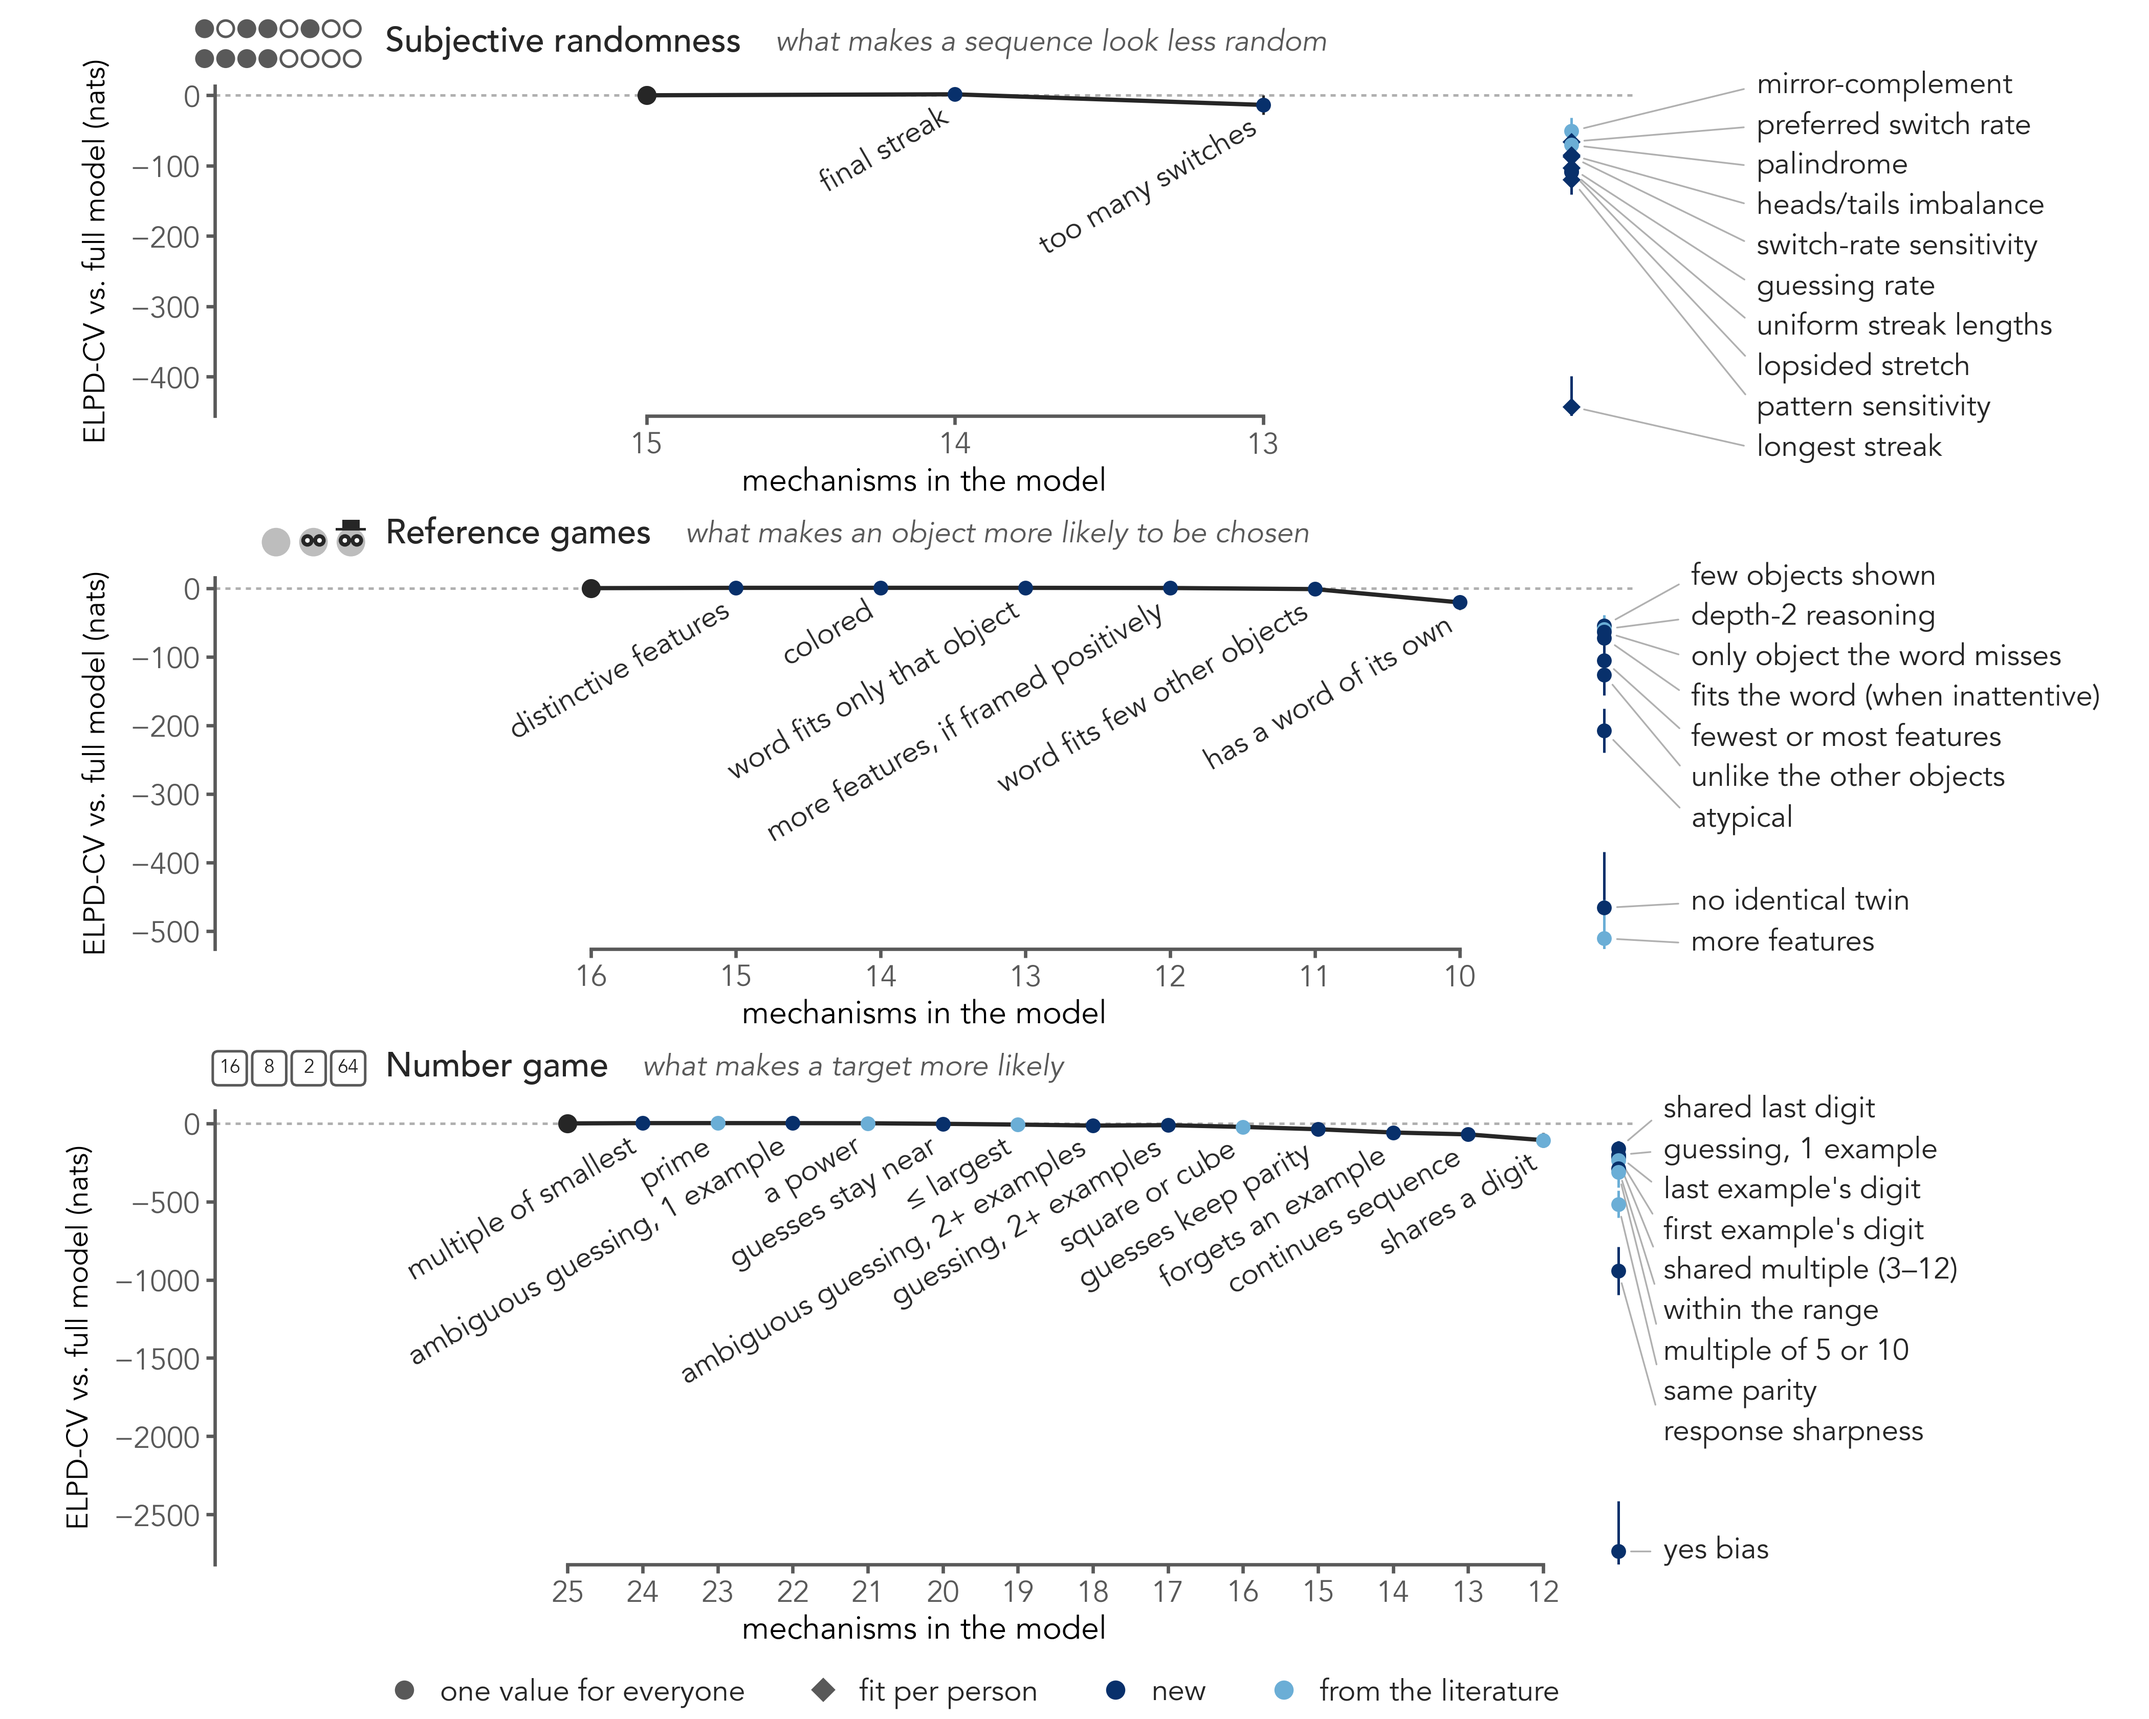
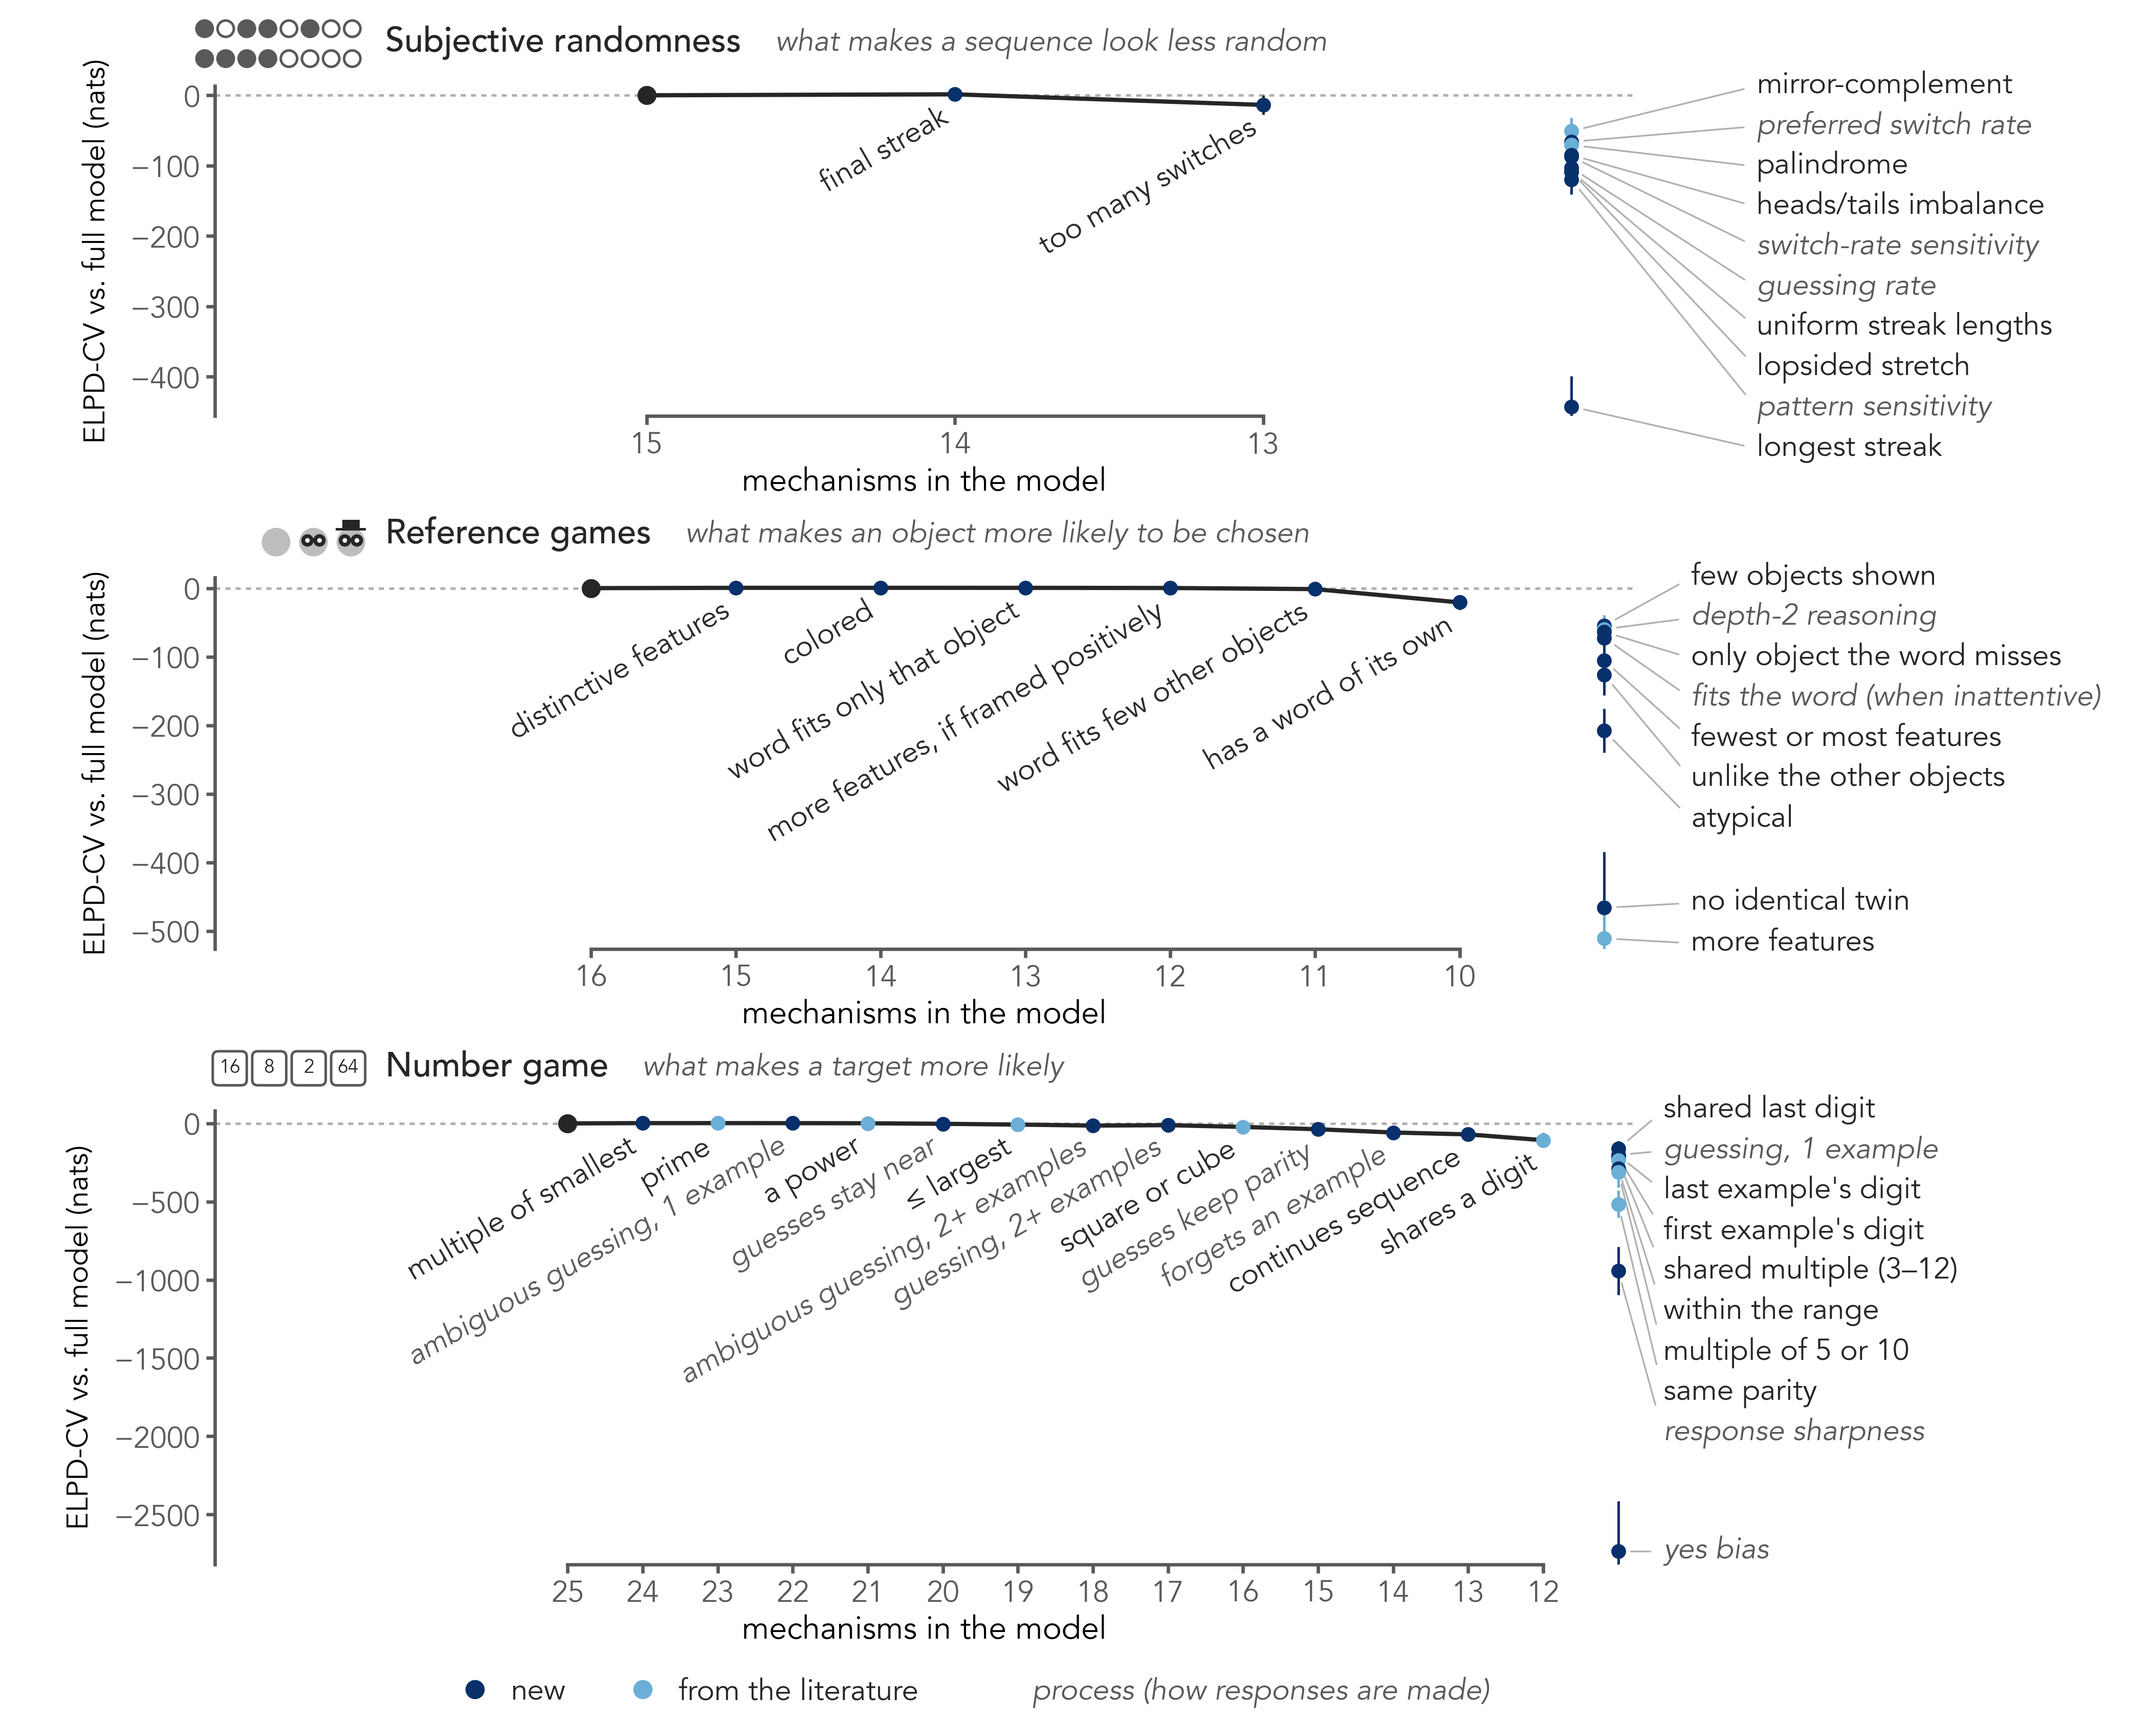
Figure 4 draft: no per-person diamonds; process mechanisms in grey italic, with their legend entry

diff --git a/data/paper/work/fig4_draft/fig4_draft.py b/data/paper/work/fig4_draft/fig4_draft.py
@@ -37,9 +37,18 @@ def sources():
             "number_game": here() / "data/results/number_game_dataset-nov26/analysis/ablation/elimination.json"}
 
 
+# The process mechanisms: how responses are made, not an answer to the panel's question (set in grey italic)
+PROCESS = {"ideal_personal", "beta_personal", "gain_personal", "lapse", "lapse_personal",  # subjective randomness
+           "depth2", "attention", "inhibit_leak",  # reference games
+           "intercept", "slope", "doubt_single", "doubt_multi", "doubt_rich", "doubt_rich_multi", "parity_keep",
+           "doubt_band", "memory_limit"}  # number game
+
+
 def style_of(names, m):
+    """A mechanism's name, its point's colour (its origin) and its name's style (process or not)."""
     name, origin = names[m]
-    return name, (COLOR_NEW if origin == "new" else COLOR_START), ("D" if m.endswith("_personal") else "o")
+    text = {"color": INK_2, "style": "italic"} if m in PROCESS else {"color": INK}
+    return name, (COLOR_NEW if origin == "new" else COLOR_START), text
 
 
 def spread(ys, gap):
@@ -75,20 +84,20 @@ def draw(ax, elimination, names):
     ax.errorbar(n, y, yerr=se, fmt="none", ecolor=PATH, elinewidth=0.6, zorder=3)
     for k in range(1, len(rounds)):
         gone = (set(rounds[k - 1]["mechanisms"]) - set(rounds[k]["mechanisms"])).pop()
-        name, color, marker = style_of(names, gone)
-        ax.scatter([n[k]], [y[k]], s=12 if marker == "o" else 9, marker=marker, color=color, linewidths=0, zorder=4)
+        name, color, text = style_of(names, gone)
+        ax.scatter([n[k]], [y[k]], s=12, color=color, linewidths=0, zorder=4)
         ax.annotate(name, (n[k], y[k]), xytext=(-2, -5), textcoords="offset points", rotation=30, fontsize=NAME_PT,
-                    color=INK, ha="right", va="center", rotation_mode="anchor")  # hung below its step
+                    ha="right", va="center", rotation_mode="anchor", **text)  # hung below its step
     ax.scatter([n[0]], [0], s=12, color=PATH, zorder=4)
     # the options at the end: every kept mechanism's removal, each at least 2 SE
     xo = lean_n - 1
     ax.axhline(0, color="#b0b0b0", lw=0.6, ls=(0, (2, 2)), zorder=0)  # the full model
     labels = []
     for c, yo in zip(options, opt_y):
-        name, color, marker = style_of(names, c["mechanism"])
+        name, color, text = style_of(names, c["mechanism"])
         ax.errorbar([xo], [yo], yerr=[c["se_vs_start"]], fmt="none", ecolor=color, elinewidth=0.6, zorder=2)
-        ax.scatter([xo], [yo], s=12 if marker == "o" else 9, marker=marker, color=color, linewidths=0, zorder=4)
-        labels.append((yo, name, color, yo))
+        ax.scatter([xo], [yo], s=12, color=color, linewidths=0, zorder=4)
+        labels.append((yo, name, text, yo))
     # the options' names in a column right of them, spread apart, a leader to each
     ax.set_ylim(lo - 0.03 * abs(lo), 0.03 * abs(lo))
     ax.set_xlim(n[0] + 0.5 + 0.3 * (n[0] - xo), xo - 0.2)  # room left for the first step's name
@@ -101,8 +110,8 @@ def draw(ax, elimination, names):
     cap = ax.get_ylim()[1]  # never above the panel: push the top labels down, then their neighbours
     for k, yt in enumerate(placed):
         placed[k] = min(yt, cap if k == 0 else placed[k - 1] - per_pt)
-    for (yo, name, color, at), yt in zip(labels, placed):
-        ax.annotate(name, (xo, at), xytext=(xo - 0.6, yt), ha="left", va="center", fontsize=NAME_PT, color=INK,
+    for (yo, name, text, at), yt in zip(labels, placed):
+        ax.annotate(name, (xo, at), xytext=(xo - 0.6, yt), ha="left", va="center", fontsize=NAME_PT, **text,
                     annotation_clip=False, arrowprops={"arrowstyle": "-", "color": "#b0b0b0", "lw": 0.4,
                                                          "shrinkA": 1, "shrinkB": 3, "relpos": (0, 0.5)})
     ax.set_xticks(n)
@@ -126,12 +135,12 @@ def figure(canvas_in, names, src):
         ax.annotate(DIRECTION[d], (1, 0.5), xycoords=title, xytext=(8, 0), textcoords="offset points",
                     ha="left", va="center", fontsize=NAME_PT, color=INK_2, style="italic")
     dot = {"lw": 0, "ms": 3.5}
-    key = [Line2D([], [], marker="o", color=INK_2, label="one value for everyone", **dot),
-           Line2D([], [], marker="D", color=INK_2, label="fit per person", **{**dot, "ms": 3}),
-           Line2D([], [], marker="o", color=COLOR_NEW, label="new", **dot),
-           Line2D([], [], marker="o", color=COLOR_START, label="from the literature", **dot)]
-    fig.legend(handles=key, loc="upper center", ncol=4, frameon=False, fontsize=SMALL, bbox_to_anchor=(0.45, 0.04),
+    key = [Line2D([], [], marker="o", color=COLOR_NEW, label="new", **dot),
+           Line2D([], [], marker="o", color=COLOR_START, label="from the literature", **dot),
+           Line2D([], [], lw=0, label="process (how responses are made)")]
+    legend = fig.legend(handles=key, loc="upper center", ncol=3, frameon=False, fontsize=SMALL, bbox_to_anchor=(0.45, 0.04),
                handletextpad=0.2, columnspacing=1.6)
+    legend.get_texts()[-1].set(color=INK_2, style="italic")  # the process entry, in the process names' style
     add_title_icons(fig, axes, list(TITLES))
     return fig, None
 
